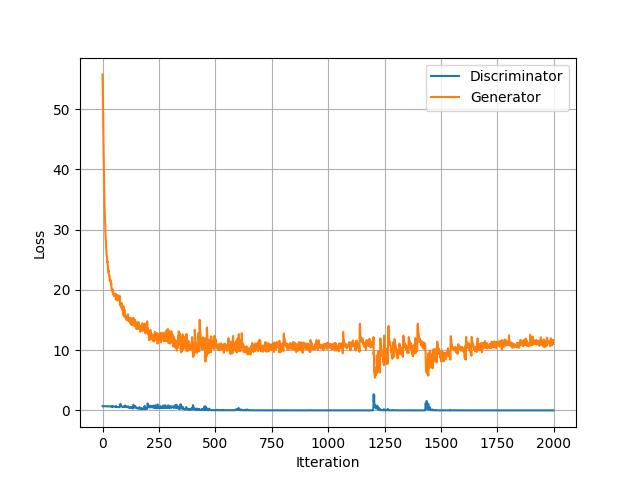
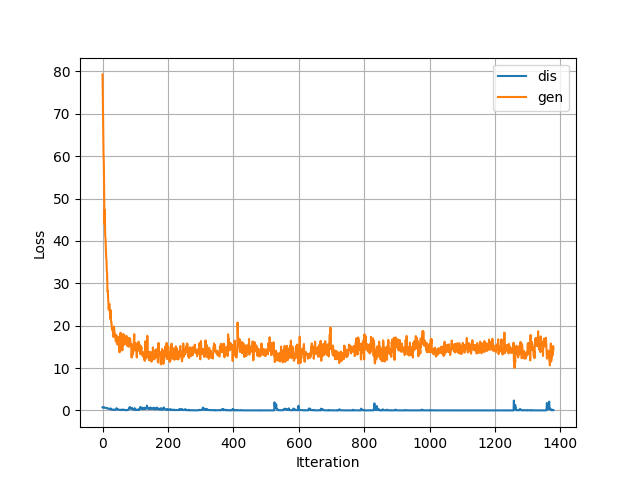
debug.py shows models and optimizers are identical
Source of noisy training for config model is still unknown

diff --git a/debug.py b/debug.py
@@ -1,0 +1,100 @@
+import torch
+
+import pix2pix
+import models
+
+i2i_hard = pix2pix.Image2Image()
+i2i_config = models.Image2Image(torch.device('cuda'))
+
+# check optimizers
+print(
+    'Gen Opt:',
+    str(i2i_hard.opt_gen) == str(i2i_config.opt_gen)
+)
+print(
+    'Dis Opt:',
+    str(i2i_hard.opt_dis) == str(i2i_config.opt_dis)
+)
+
+# check parameters
+print(
+    'Gen Params:',
+    len(list(
+        i2i_hard.net_gen.parameters()
+    )) == len(list(
+        i2i_config.gen.parameters()
+    ))
+)
+
+print(
+    'Dis Params:',
+    len(list(
+        i2i_hard.net_dis.parameters()
+    )) == len(list(
+        i2i_config.dis.parameters()
+    ))
+)
+
+def clean_string(module:str) -> str:
+    '''
+    Clean module string to just the core functions
+
+    Args:
+        module (str) : module string
+
+    Returns:
+        cleaned (str) : cleaned string
+    '''
+    cleaned = ''
+
+    layer = []
+    contents = []
+    i = 0
+    for line in module.splitlines():
+        line = line.strip()
+
+        if line[-1] == '(':
+            if ' x ' in line:
+                layer.append(int(
+                    line.split(' x ')[0].split('): ')[1].strip()
+                ))
+            else:
+                layer.append(1)
+            contents.append('')
+
+        elif line == ')':
+            reps = layer.pop()
+            content = contents.pop()
+
+            for rep in range(reps):
+                for newline in content.splitlines():
+                    if newline:
+                        cleaned += f'({i}): ' + newline + '\n'
+                        i += 1
+
+        elif line[-1] == ')':
+            contents[-1] += line.split('): ')[1] + '\n'
+
+    return cleaned
+
+print(
+    'Dis Modules:',
+    clean_string(str(i2i_hard.net_dis)) == clean_string(str(i2i_config.dis))
+)
+
+print(
+    'Gen Modules:',
+    clean_string(str(i2i_hard.net_gen)) == clean_string(str(i2i_config.gen))
+)
+
+hard_gen_lines = clean_string(str(i2i_hard.net_gen)).splitlines()
+config_gen_lines = clean_string(str(i2i_config.gen)).splitlines()
+i = 0
+while True:
+    if (i >= len(hard_gen_lines) - 1) or (i >= len(config_gen_lines) - 1):
+        break
+
+    if hard_gen_lines[i] != config_gen_lines[i]:
+        print('False:', hard_gen_lines[i], '!=', config_gen_lines[i])
+
+    i += 1

diff --git a/models.py b/models.py
@@ -399,7 +399,7 @@ class Image2Image(nn.Module):
         real_loss = self.BCE_Loss(real_pred, torch.ones_like(real_pred))
         
         fake_pred = self.dis(x, y_pred.detach())
-        fake_loss = self.BCE_Loss(fake_pred, torch.zeros_like(real_pred))
+        fake_loss = self.BCE_Loss(fake_pred, torch.zeros_like(fake_pred))
 
         # average loss
         dis_loss = 0.5 * (real_loss + fake_loss)
@@ -411,9 +411,9 @@ class Image2Image(nn.Module):
             
         # compute loss
         fake_pred = self.dis(x, y_pred)
-        gen_loss = self.BCE_Loss(fake_pred, torch.ones_like(fake_pred))
+        gen_fake_loss = self.BCE_Loss(fake_pred, torch.ones_like(fake_pred))
 
-        gen_loss += self.L1_Loss(y_pred, y) * 100 #self.gen.info[INFO_L1_LAMBDA]
+        gen_loss = gen_fake_loss + self.L1_Loss(y_pred, y) * float(self.gen.info[INFO_L1_LAMBDA])
 
         # train generator
         self.opt_gen.zero_grad()

diff --git a/maps.py b/maps.py
@@ -1,0 +1,21 @@
+'''
+MAPS
+
+Train Image-to-Image on Satillite -> Map dataset
+
+Referances:
+    https://medium.com/@Skpd/pix2pix-gan-for-generating-map-given-satellite-images-using-pytorch-6e50c318673a
+
+'''
+
+import pix2pix
+import dataset
+
+train = dataset.I2I_Dataset('datasets\\maps\\train')
+val = dataset.I2I_Dataset('datasets\\maps\\val')
+
+i2i = pix2pix.Image2Image()
+
+i2i.train(train, epochs=20)
+i2i.plot_history()
+i2i.plot_predictions(val)

diff --git a/train.py b/train.py
@@ -19,7 +19,7 @@ val = dataset.I2I_Dataset('datasets\\maps\\val')
 
 i2i = models.Image2Image(torch.device('cuda'))
 
-i2i.learn(train, epochs=30, checkpoints=10, last_checkpoint='checkpoints\epoch_20.pt')
+i2i.learn(train, epochs=20, checkpoints=5)#, last_checkpoint='checkpoints\epoch_20.pt')
 utils.plot_loss(i2i.history)
 
 x, y, pred = i2i.predict(val, batch_size=25)
